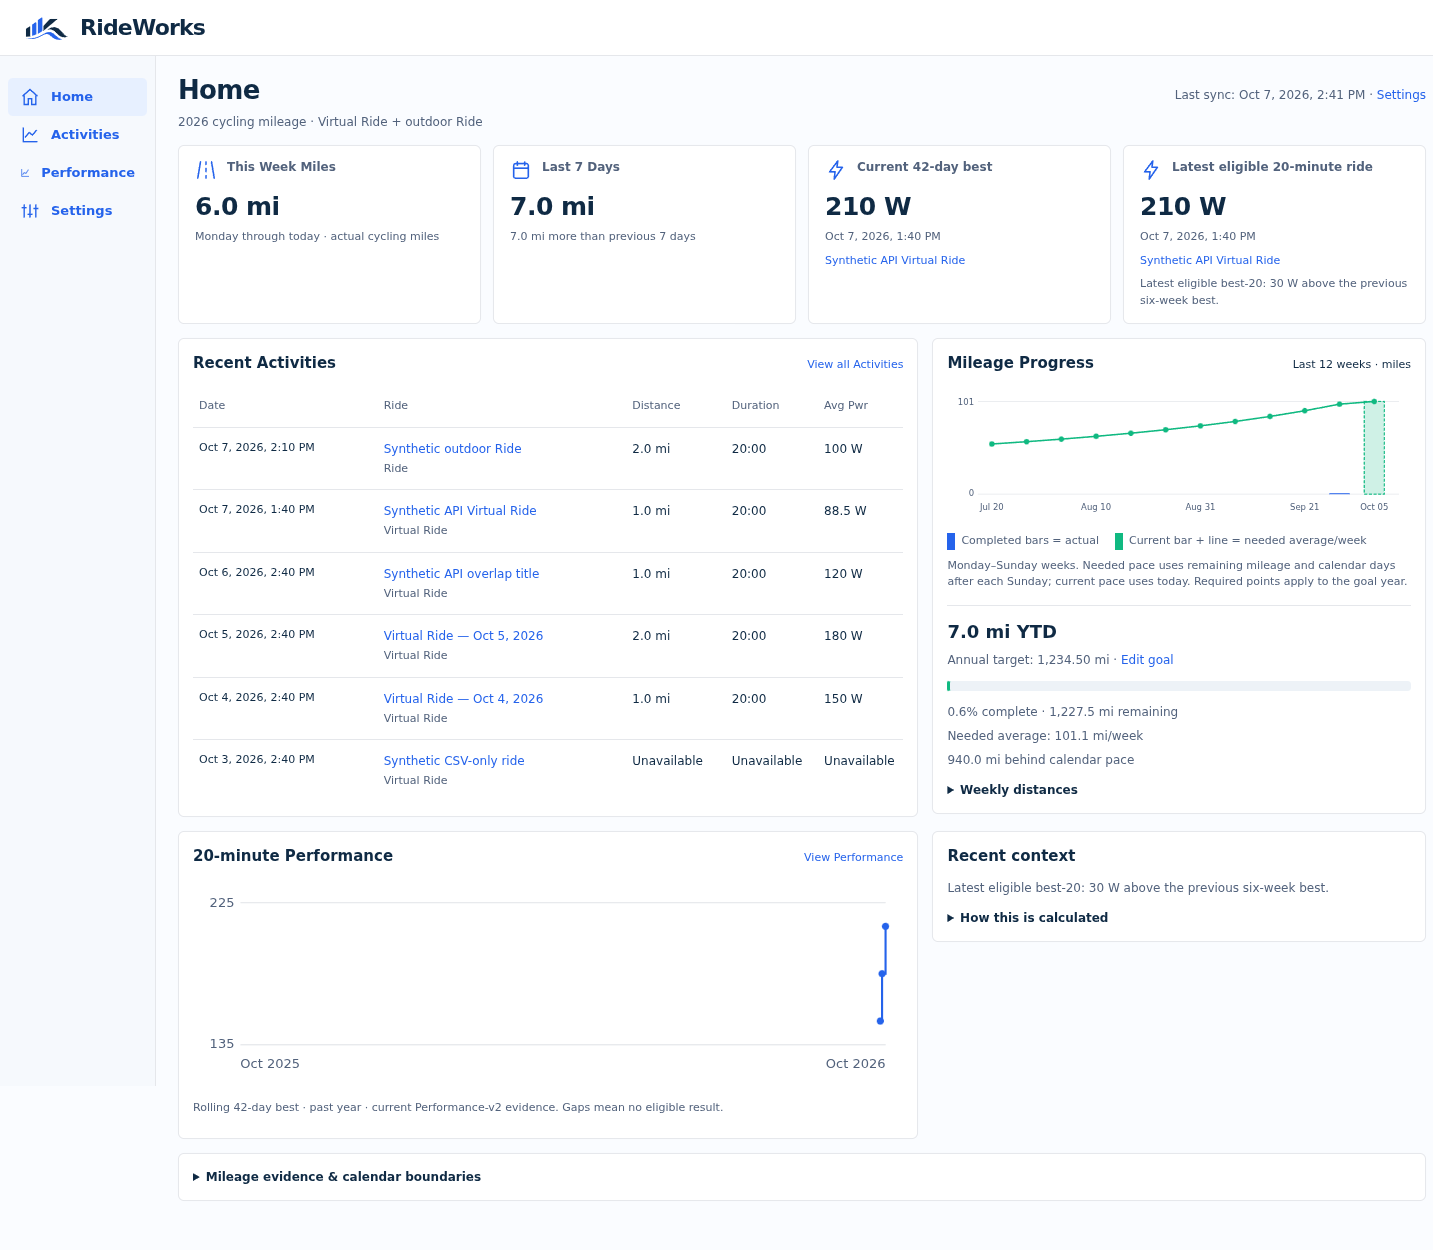
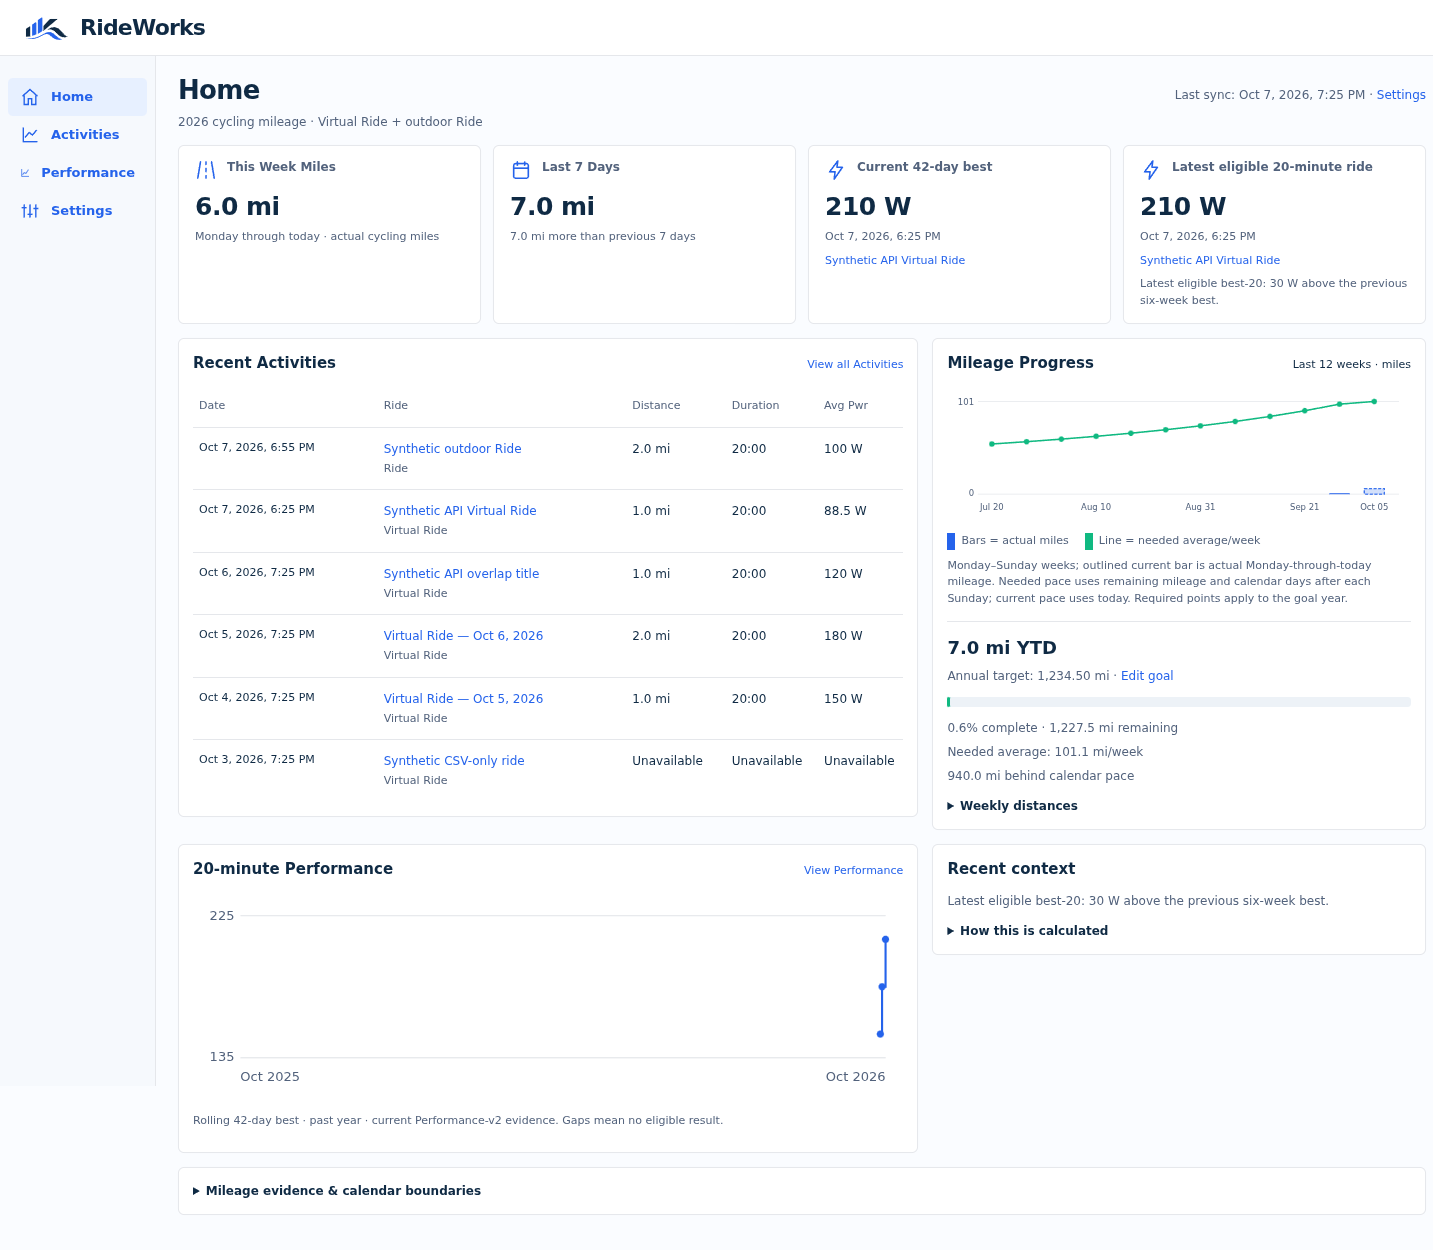
Refresh P3-01 actual-bar evidence and Owner review handoff

diff --git a/reports/P3-01/verification.md b/reports/P3-01/verification.md
@@ -1,16 +1,16 @@
 # P3-01 — Corrected Home dashboard and annual mileage goal
 
-The 2026-10-07 [Owner correction in PR #19](https://github.com/k14krug/my_strava/pull/19#issuecomment-6047219191) is implemented and locally verified. **Re-presented at Gate 1 — HARD — Owner**; P3-01 remains `in_progress` with handoff state `ready_for_review`. The first Home review was not approved. Owner approval and subsequent Analyst acceptance remain outstanding; Phase 4/5/6 work has not begun.
+The latest 2026-10-07 [Owner correction in PR #19](https://github.com/k14krug/my_strava/pull/19#issuecomment-6048149785) is implemented and locally verified. **All mileage bars now show actual miles; the green line alone shows needed average/week.** This explicitly supersedes the earlier current-bar needed-pace decision. **Re-presented at Gate 1 — HARD — Owner**; P3-01 remains `in_progress` with handoff state `ready_for_review`. The first Home review was not approved. Owner approval and subsequent Analyst acceptance remain outstanding; Phase 4/5/6 work has not begun.
 
-Invocation: `/TASK PR #19`. Clean checkout checked and origin fetched unconditionally; existing task branch pulled with fast-forward only, then updated main merged (the STATUS conflict was resolved to record correction work in progress). Refreshed main `d18ce97`, Analyst JIT revision `dc26463`, Phase 3 contract revision `5340e47`; controlling product requirements and AGENTS.md remain unchanged. The JIT still has no Allowed Invocation declaration, so the `/TASK only` fallback controls this run. No JIT controls were authored or changed by Dex.
+Invocation: `/TASK PR #19`. Clean checkout checked and origin fetched unconditionally; existing task branch pulled with fast-forward only, then updated main merged (the STATUS conflict was resolved to record correction work in progress). Refreshed main `e490bca`, Analyst JIT revision `3820120`, Phase 3 contract revision `38211d2`; controlling product requirements and AGENTS.md remain unchanged. The JIT still has no Allowed Invocation declaration, so the `/TASK only` fallback controls this run. No JIT controls were authored or changed by Dex.
 
-Branch: `task/p3-01-dashboard`; prior Owner review `2648db8`; corrected implementation commit `d09b957957511b66ecf1c780352fea3684092bef`. [Aggregate acceptance evidence](acceptance.json) includes all **23** checks in the updated Phase 3 contract §11.
+Branch: `task/p3-01-dashboard`; prior Owner review `8101625`; corrected implementation commit `1cc01b645e745199b12b41bff7064e21540ab62b`. [Aggregate acceptance evidence](acceptance.json) includes all **23** checks in the updated Phase 3 contract §11.
 
 ## Owner corrections delivered
 
 1. **This Week Miles** replaces the duplicate top YTD goal card. It shows actual cycling distance from local Monday through today. Annual actual/target/progress and calendar pace appear only in Mileage Progress.
 2. Mileage Progress shows target, percentage, **miles remaining** and **Needed average: N.N mi/week**. Needed average is remaining target after today's retained mileage, multiplied by seven and divided by calendar days after today to January 1 next year. This is arithmetic goal progress, not training advice.
-3. Eleven completed-week bars retain actual miles. The distinct green outlined current bar shows needed weekly average; the green line uses cumulative actual YTD through each completed Sunday, and through today at its current endpoint. Current bar, line endpoint and displayed needed average agree. Actual current-week distance stays in its top card and diagnostic payload. Goal met gives zero; remaining miles with no time gives Unavailable. Points before the configured goal year are unavailable rather than borrowing a previous-year target.
+3. All twelve bars show actual miles. Eleven completed-week bars retain their actual totals; the blue outlined current bar shows actual Monday-through-today distance and agrees exactly with This Week Miles and the diagnostic payload. The green line alone uses cumulative actual YTD through each completed Sunday, and through today at its current endpoint. Its current endpoint agrees with displayed needed average. Bar tooltips show actuals; line-point tooltips show required weekly values. Needed pace is zero when the goal is met, while bars retain actual mileage; remaining miles with no time gives Unavailable needed pace. Points before the configured goal year are unavailable rather than borrowing a previous-year target.
 4. Mileage bars/points use an immediate custom miles-only readout on pointer enter/move or keyboard focus. Leave/blur hides immediately; Escape dismisses. No mileage SVG `<title>` or title attributes remain. Tooltip position is bounded to the viewport; no timer, hover delay or client calculation is introduced.
 5. Recent Activities adds **Avg Pwr**, selected from understood file session `avg_power`, then an understood single TCX lap when needed, then current API summary `average_watts`, otherwise Unavailable. Known zero is retained. CSV watts and raw sample averages are excluded; chosen source/context remain in the dashboard payload. Performance-v2 eligibility and best-20 calculation are unchanged.
 
@@ -20,7 +20,9 @@ Home `/`, Activities `/activities`, stable Activity Review URLs, old filtered-ro
 
 ## Verification
 
-**276 full automated tests and 23 focused dashboard/goal tests passed**. Seven additional meaningful tests cover cumulative required-week history/current-bar semantics, met-goal/year-end/leap/missing states, LA/Tokyo year edges, source-power precedence/currentness/zero/single-vs-multiple TCX laps, corrected annual-panel placement, and independent-oracle rejection of wrong required values/power. The existing actual FIT/API conflict test now covers file summary watts against conflicting API watts and retains the metadata-only read check.
+**276 full automated tests and 23 focused dashboard/goal tests passed**. Focused tests cover cumulative required-week history/current-bar semantics, met-goal/year-end/leap/missing states, LA/Tokyo year edges, source-power precedence/currentness/zero/single-vs-multiple TCX laps, corrected annual-panel placement, and independent-oracle rejection of wrong required values/power. The existing actual FIT/API conflict test covers file summary watts against conflicting API watts and retains the metadata-only read check.
+
+The current-bar tests now also reject substituting needed pace for actual mileage, retain actual mileage when a goal is met or unset, and assert all twelve bar kinds are actual. Historical actual bars and required-line calculations are unchanged.
 
 The full suite also preserves prior goal protection, atomic migration/write rollback, export/source/history, Activity Review, Performance-v2, Strava sync/streams, failure/retry and restart coverage. JavaScript syntax and `git diff --check` pass.
 
@@ -28,11 +30,11 @@ Actual Chromium passed:
 
 - fresh synthetic Home and Settings goal set/update/clear, no default, new/enriched sync, exception banner after failure/restart, later unchanged-sync recovery;
 - live read-only Home in Los Angeles and Tokyo, annual goal preservation, search/sort/disjoint pagination/back state, recent links/Avg Pwr, Performance references and restart with identical actual/required period data;
-- completed/current bar values, required-point values and SVG geometry, with the current bar and line endpoint aligned to the same needed-average value;
+- all completed/current bar actual values and SVG geometry, current-bar agreement with This Week Miles, required-line point values/geometry and endpoint agreement with displayed needed average;
 - **48 immediate tooltip lifecycle checks per run** (12 bars + 12 required points at two widths), including enter/move/leave/focus/blur in the same JavaScript turn, actual pointer hover/leave on bar and point, real keyboard Tab/Escape, mileage-only content and viewport clipping checks;
 - desktop 1,448-pixel and phone 390-pixel layouts with no overflow; live screenshots also inspected visually;
-- Settings/OAuth regression: decline/reconnect, clean callback, disabled controls during sync, automatic convergence, near-expiry refresh, restart/idempotent rerun, failure/manual retry/later-sync recovery, disconnect retaining history and source integrity;
-- seven established live API Activity Reviews: complete payload/source labels/offsets, charts/keyboard inspection, FIT precedence, local best-20/six-week context and Performance integration, LA/Tokyo, desktop/phone, restart/cache reuse with zero stream requests and no table changes.
+- Prior Settings/OAuth regression on `d09b957` (unchanged by this narrow bar correction): decline/reconnect, clean callback, disabled controls during sync, automatic convergence, near-expiry refresh, restart/idempotent rerun, failure/manual retry/later-sync recovery, disconnect retaining history and source integrity;
+- Prior seven established live API Activity Reviews on `d09b957` (unchanged by this narrow bar correction): complete payload/source labels/offsets, charts/keyboard inspection, FIT precedence, local best-20/six-week context and Performance integration, LA/Tokyo, desktop/phone, restart/cache reuse with zero stream requests and no table changes.
 
 ### Independent calculation and provenance
 
@@ -55,7 +57,7 @@ Six controlled checks use LA/Tokyo at two UTC year-edge instants and a leap-year
 
 Differences follow browser-local day/year membership; source distance is unchanged. The browser instants fall on October 7 in LA and October 8 in Tokyo. The accepted review baseline already included one additional API-backed cycling Activity since the first handoff: 1,442 total Activities, 1,418 cycling (1,270 Virtual / 148 Ride), 24 noncycling and 101 supported cycling source dates with unknown timezone. No live external request or Activity mutation was performed by correction verification.
 
-LA Owner presentation: **2,200-mi target; 69.0% complete; 681.8 mi remaining; 56.1 mi/week needed** over 85 calendar days after today. Actual this week is **26.3 mi**, independent of the needed current chart bar. Linear calendar pace is 169.5 mi behind (280/365 elapsed days). Current 42-day best remains **195 W**; latest eligible is **160 W**, 35 W below its previous-six-week best. These statements are neutral source-based arithmetic, not training prescriptions.
+LA Owner presentation: **2,200-mi target; 69.0% complete; 681.8 mi remaining; 56.1 mi/week needed** over 85 calendar days after today. Actual this week is **26.3 mi** in both card and current blue bar; the green line endpoint independently remains **56.1 mi/week**. Linear calendar pace is 169.5 mi behind (280/365 elapsed days). Current 42-day best remains **195 W**; latest eligible is **160 W**, 35 W below its previous-six-week best. These statements are neutral source-based arithmetic, not training prescriptions.
 
 ### Originals, migration, sync and restart
 
@@ -63,7 +65,7 @@ The correction does not change schema 7. Verification repeats the disposable sch
 
 Live verification preserves native/export tables, every prior Activity/API/stream observation, **1,441 v1 rows**, the goal tuple and all **1,422 original/export artifact SHA-256/size checks**. Integrity and foreign-key checks pass. Current Performance has **1,028 eligible / zero pending**; the increase from the first handoff follows the already-present newly synced ride under unchanged v2 policy. Originals were never altered; no tokens were copied into replay stores.
 
-Correction live verification and its rerun are **read-only**, with zero external API calls. Earlier first-presentation evidence retained in `acceptance.json` records one real bounded metadata sync: three unchanged Activities, zero new observations, three cached streams reused, zero stream GETs and automatic current Performance without another action. Fresh synthetic sync now separately verifies new/enriched Home data, failure persistence and recovery on the corrected implementation. No new real sync was needed to verify this presentation-only correction.
+Latest current-bar live verification is **read-only**, with zero external API calls. The preceding correction and its rerun were also read-only. Earlier first-presentation evidence retained in `acceptance.json` records one real bounded metadata sync: three unchanged Activities, zero new observations, three cached streams reused, zero stream GETs and automatic current Performance without another action. Fresh synthetic sync now separately verifies new/enriched Home data, failure persistence and recovery on the corrected implementation. No new real sync was needed to verify this presentation-only correction.
 
 ## Updated Phase 3 checklist
 
@@ -75,13 +77,13 @@ All **23 implementation/verification checks** in the updated contract §11 pass.
 | 4–7 | Cycling and distance source precedence | independent SQL; FIT/API overlap; API-only and CSV-only fixtures |
 | 8–10 | Independent mileage and calendar/leap | fifteen periods, both browser zones, controlled edges and unit tests |
 | 11 | Goal math including current needed/week | independent Decimal calculation |
-| 12 | Required history and current needed bar | twelve cumulative points; SVG values/geometry; actual current week retained |
-| 13 | Immediate miles-only tooltip | forty-eight lifecycle checks per run; actual pointer/keyboard at both widths |
+| 12 | Required line and current actual bar | twelve actual bars and required points; SVG geometry; current bar/card agreement |
+| 13 | Immediate miles-only tooltip | forty-eight lifecycle checks per run; correct actual-bar/required-line tooltip values; pointer/keyboard at both widths |
 | 14 | Recent evidence and Avg Pwr | six independent value/source/context checks; source precedence fixtures |
 | 15–17 | Cards/chart/neutral context | Performance page and separate result/event/prior-window scan |
 | 18–19 | Sync and Home failure state | prior real sync; fresh synthetic new/enriched/failure/restart/recovery |
 | 20–21 | Restart and usable layouts | unchanged goal/period/required values; desktop/phone Chromium |
-| 22 | Full regression | 276 full / 23 focused; Settings/OAuth and seven live Activity Reviews |
+| 22 | Full regression | 276 full / 23 focused rerun; preceding Settings/OAuth and seven live Activity Reviews retained |
 | 23 | Deferred scope absent | diff inspection and deferred-metric exclusion test |
 
 ## Reproduction and review artifacts
@@ -102,4 +104,4 @@ node --check rideworks/static/home.js
 
 [Aggregate evidence](acceptance.json), [synthetic desktop](home-desktop-synthetic.png), [synthetic phone](home-phone-synthetic.png). Committed images contain generated Activities and a temporary synthetic goal; live screenshots stay private. Private titles/IDs/raw streams/credentials/databases/local paths are not published in evidence.
 
-Owner review app restarted with the corrected runtime: [Home](http://127.0.0.1:8771/), [Activities](http://127.0.0.1:8771/activities), [Settings goal](http://127.0.0.1:8771/settings#annual-goal). Review the corrected cards, annual progress/needed average, chart semantics/tooltips and recent Avg Pwr on desktop/phone. **Stop at HARD — Owner** under JIT §15. Explicit Owner approval precedes Gate 2 — HARD — Analyst. No Phase 4/5/6 implementation or next task.
+Owner review app restarted with the corrected runtime: [Home](http://127.0.0.1:8771/), [Activities](http://127.0.0.1:8771/activities), [Settings goal](http://127.0.0.1:8771/settings#annual-goal). Review actual mileage in all bars (current bar matches This Week Miles), the separate needed-average line and their respective immediate tooltips on desktop/phone. **Stop at HARD — Owner** under JIT §15. Explicit Owner approval precedes Gate 2 — HARD — Analyst. No Phase 4/5/6 implementation or next task.

diff --git a/STATUS.md b/STATUS.md
@@ -1,15 +1,17 @@
 # STATUS.md
 
-**Product:** RideWorks. Phase 1, Phase 2 and STRAVA-004 accepted / complete. Phase 3 active; Phase 4/5/6 not started.
+**Product:** RideWorks. Phase 1, Phase 2 and STRAVA-004 accepted / complete. Phase 3 awaits Owner review; Phase 4/5/6 not started.
 
-**Current task:** P3-01, `in_progress` under `/TASK P3-01`, addressing the latest PR #19 Owner correction. Owner/Analyst acceptance remains outstanding.
+**Current task:** P3-01, `ready_for_review` after `/TASK P3-01`; `TASKS.md` remains `in_progress`. Owner/Analyst acceptance is outstanding.
 
-**Branch / PR:** `task/p3-01-dashboard` / [draft PR #19](https://github.com/k14krug/my_strava/pull/19). Refreshed main `e490bca`; controlling JIT `3820120` / Phase 3 contract `38211d2`. Prior review head `8101625`.
+**Branch / PR:** `task/p3-01-dashboard` / [draft PR #19](https://github.com/k14krug/my_strava/pull/19). Refreshed main `e490bca`; controlling JIT `3820120` / Phase 3 contract `38211d2`; runtime head `1cc01b6`.
 
-**Authorized correction:** Latest Owner decision supersedes the mixed-bar rule. All mileage bars show actual cycling miles; current bar shows actual Monday-through-today miles and must match This Week Miles. Green line alone shows needed average/week; its current point agrees with annual needed/week. Tooltip/legend semantics must agree. Other dashboard, mileage, power and goal behavior stays within the accepted task boundary.
+**Latest Owner correction delivered:** All mileage bars show actual cycling miles. Outlined current partial-week bar matches This Week Miles exactly; green line alone shows needed average/week and its endpoint matches annual needed/week. Legend and immediate pointer/keyboard tooltips distinguish actual bar values from required line values. Historical bars, annual goal math, Avg Pwr and Performance-v2 are unchanged.
 
-**Goal:** Owner-confirmed 2026 / 2,200 mi record to be preserved exactly.
+**Goal / LA review:** Owner-confirmed 2026 / 2,200-mi record preserved exactly. Current bar/card 26.3 mi actual; green line/needed detail 56.1 mi/week. YTD 1,518.2 mi / 69.0%; 681.8 mi remaining. Performance 1,028 eligible / zero pending.
 
-**Prior verification:** 276 full / 23 focused tests plus independent/browser/restart/integrity checks passed for the prior presentation. Verification of the current-bar correction is pending.
+**Verification:** 276 full / 23 focused tests passed. Fresh live/synthetic Chromium verifies 12 actual bars/required points and geometry, current bar/card equality, line/needed equality, 48 immediate tooltip lifecycle checks per run and desktop/phone/LA-Tokyo, restart/search/sort/pagination. Independent SQL/Decimal checks reproduce 15 periods, 12 cumulative required points, six recent power values/source contexts and 252 Performance events. Exact goal, native/export evidence, 1,441 v1 rows and 1,422 artifact hashes retained; integrity/FKs pass. Latest live run used zero external API calls. Prior unchanged Settings/OAuth and seven Activity Review browser regressions are retained. Evidence: `reports/P3-01/verification.md` / `acceptance.json`.
 
-**Next action:** Implement this correction, verify tests and live/synthetic bar/line/card/tooltips, refresh evidence/screenshots and PR, then re-present Gate 1 — HARD — Owner. No Phase 4/5/6 or next task.
+**Running review:** [Home](http://127.0.0.1:8771/), [Activities](http://127.0.0.1:8771/activities), [Settings goal](http://127.0.0.1:8771/settings#annual-goal), restarted on `1cc01b6`. Committed images are synthetic; live images remain private.
+
+**Next action:** Re-presented **Gate 1 — HARD — Owner** per JIT §15: review all-actual bars (current bar/card match), separate required line and their immediate tooltip values on desktop/phone. Explicit Owner approval precedes Gate 2 — HARD — Analyst acceptance. No implementation blocker; no next task or Phase 4/5/6.

diff --git a/TASKS.md b/TASKS.md
@@ -391,7 +391,7 @@ Phase 3 must not begin automatically after Phase 2.
 
 **Allowed invocation:** `/TASK P3-01` or `/AUTOTASK P3-01`.
 
-**Current result:** [Draft PR #19](https://github.com/k14krug/my_strava/pull/19), corrected runtime `d09b957`, addresses the 2026-10-07 Owner review: This Week Miles; annual goal only in Mileage Progress with needed mi/week; actual completed bars/current needed bar/required-pace line; immediate miles-only pointer/keyboard tooltip; file-first Avg Pwr. Owner-confirmed **2,200 mi** record preserved. 276 full / 23 focused tests and independent 15-period/12-required-point/source-power checks, live/synthetic desktop/phone, Settings/OAuth, seven live Activity Reviews, restart and integrity passed. Current Performance 1,028 eligible / zero pending; correction live verification used zero external calls. Evidence: `reports/P3-01/verification.md` / `acceptance.json`. Re-presented **HARD — Owner**, first review not approved; Analyst acceptance follows explicit Owner approval. Phase 4/5/6 not started. `/TASK` used under JIT's missing-declaration fallback.
+**Current result:** [Draft PR #19](https://github.com/k14krug/my_strava/pull/19), runtime `1cc01b6`, implements the latest 2026-10-07 Owner decision: all bars are actual mileage; outlined current-week bar matches This Week Miles, green line alone shows needed average/week, and legend/tooltips follow those values. Prior dashboard/goal/Avg Pwr behavior and Performance-v2 remain unchanged. Owner-confirmed **2,200-mi** record preserved. 276 full / 23 focused tests and fresh live/synthetic actual-bar/required-line geometry, immediate tooltip/desktop/phone/LA-Tokyo, independent source/goal/Performance, restart and integrity checks passed; zero external calls during live verification. Evidence: `reports/P3-01/verification.md` / `acceptance.json`. Re-presented **HARD — Owner**; Analyst acceptance follows explicit Owner approval. Phase 4/5/6 not started. `/TASK P3-01` used under JIT's missing-declaration fallback.
 
 **Dependency:** Phase 2 and STRAVA-004 accepted / complete.
 
